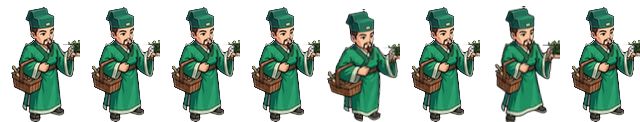
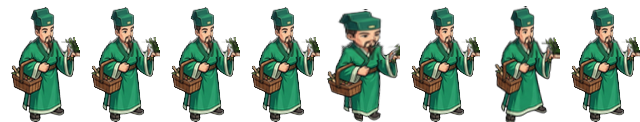
feat(v3.0.0): complete pro studio overhaul - unified 1:3.5 chibi wuxia sprites, seamless Jiangnan courtyard architecture, 100vw desktop layout, proximity NPC tags, and multi-boss battle HUD

diff --git a/js/graphics.js b/js/graphics.js
@@ -63,12 +63,13 @@
   ];
 
   const IMAGE_CACHE = {};
+  const ASSET_VERSION = '20261103_pro';
 
   function preloadAssets() {
     if (typeof Image === 'undefined') return;
     for (const rel of ASSET_MANIFEST) {
       const img = new Image();
-      img.src = 'assets/' + rel;
+      img.src = 'assets/' + rel + '?v=' + ASSET_VERSION;
       IMAGE_CACHE[rel] = img;
     }
   }
@@ -77,7 +78,7 @@
     if (typeof Image === 'undefined') return null;
     if (!IMAGE_CACHE[rel]) {
       const img = new Image();
-      img.src = 'assets/' + rel;
+      img.src = 'assets/' + rel + '?v=' + ASSET_VERSION;
       IMAGE_CACHE[rel] = img;
     }
     return IMAGE_CACHE[rel];
@@ -988,21 +989,36 @@
       labelY = -106;
     }
 
-    // 頭頂圓角古風名牌 + 服務徽章 + 任務標記 + 氣泡短語
+    // 頭頂名牌與任務引導：專業級 RPG 介面規範（接近或游標指向時顯示名牌，平時僅浮現精緻任務光標，杜絕滿屏廣告板）
     if (obj.type === 'npc' || obj.type === 'boss' || obj.type === 'portal') {
-      const badge = obj.serviceBadge ? `[${obj.serviceBadge}] ` : '';
-      const prefix = highlighted
-        ? (obj.type === 'boss' ? '【伏魔】' : obj.type === 'portal' ? '【渡口】' : '【會客】')
-        : badge;
-      const borderCol = highlighted
-        ? '#ffe082'
-        : (obj.type === 'boss' ? 'rgba(255,138,128,0.65)' : 'rgba(226,190,107,0.5)');
-      const txtCol = obj.type === 'boss' ? '#ff8a80' : obj.type === 'portal' ? '#80deea' : '#ffe082';
-      drawRoundedTag(ctx, 0, labelY, prefix + obj.name, 'rgba(7, 15, 32, 0.88)', borderCol, txtCol);
+      const isBoss = obj.type === 'boss';
+      const isPortal = obj.type === 'portal';
+      const showNameTag = highlighted || isBoss || isPortal;
 
-      // 任務標記 (! 主線 / 准 可回報支線 / ? 可接支線)
+      if (showNameTag) {
+        const badge = obj.serviceBadge ? `[${obj.serviceBadge}] ` : '';
+        const prefix = highlighted
+          ? (isBoss ? '【伏魔】' : isPortal ? '【渡口】' : '【會客】')
+          : badge;
+        const borderCol = highlighted
+          ? '#ffe082'
+          : (isBoss ? 'rgba(255,138,128,0.65)' : 'rgba(226,190,107,0.5)');
+        const txtCol = isBoss ? '#ff8a80' : isPortal ? '#80deea' : '#ffe082';
+        drawRoundedTag(ctx, 0, labelY, prefix + obj.name, 'rgba(7, 15, 32, 0.88)', borderCol, txtCol);
+
+        // 靠近可互動時額外浮現精緻按鍵指引
+        if (highlighted && !isBoss && !isPortal) {
+          ctx.font = '10px "Microsoft JhengHei", sans-serif';
+          ctx.fillStyle = 'rgba(255, 238, 145, 0.92)';
+          ctx.textAlign = 'center';
+          ctx.fillText('[ 空白鍵 / 點擊 ] 交談', 0, labelY + 16);
+        }
+      }
+
+      // 任務標記 (! 主線 / 准 可回報支線 / ? 可接支線) - 始終保留呼吸感精緻法寶光標
       if (obj.questMarker) {
-        const qy = labelY - 19 + Math.sin(time * 6) * 2.2;
+        const markerBaseY = showNameTag ? labelY - 19 : labelY - 4;
+        const qy = markerBaseY + Math.sin(time * 6) * 2.2;
         const isMain = obj.questMarker === '!';
         const isTurnIn = obj.questMarker === '✓' || obj.questMarker === '准';
         const qBg = isMain ? '#ffb300' : (isTurnIn ? '#69f0ae' : '#4fc3f7');
@@ -1022,7 +1038,7 @@
 
       // 浮動生活氣泡短語
       if (obj.activeBark && !highlighted) {
-        const barkTop = obj.questMarker ? labelY - 32 : labelY - 17;
+        const barkTop = obj.questMarker ? labelY - 26 : labelY - 14;
         drawSpeechBubble(ctx, 0, barkTop, obj.activeBark, obj.barkAlpha || 1);
       }
     } else if (highlighted) {
@@ -1635,11 +1651,11 @@
     if (count === 1) {
       return { x: w * 0.68, y: h * 0.45 };
     }
-    const stepX = Math.min(74, (w * 0.28) / Math.max(1, count - 1));
-    const stepY = Math.min(42, h * 0.075);
+    const stepX = Math.min(130, (w * 0.34) / Math.max(1, count - 1));
+    const stepY = Math.min(44, h * 0.08);
     return {
-      x: w * 0.57 + idx * stepX,
-      y: h * 0.38 + idx * stepY
+      x: w * 0.52 + idx * stepX,
+      y: h * 0.36 + idx * stepY
     };
   }
 
@@ -1786,7 +1802,8 @@
         const bx = Math.max(8, Math.min(w - barW - 8, pos.x - barW / 2));
         const rawTop = en.sprite === 'boss_shuimoshou' ? 182 : (en.isBoss ? 158 : 98);
         const topOffset = rawTop * (isPortrait ? 0.82 : 1.0);
-        const by = Math.max(54, pos.y - topOffset);
+        const staggerY = (battle.enemies.length > 1 && idx % 2 === 1) ? 32 : 0;
+        const by = Math.max(54, pos.y - topOffset - staggerY);
 
         ctx.fillStyle = 'rgba(7, 15, 32, 0.88)';
         ctx.fillRect(bx - 5, by - 17, barW + 10, 26);

diff --git a/index.html b/index.html
@@ -7,7 +7,7 @@
   <meta http-equiv="Pragma" content="no-cache" />
   <meta http-equiv="Expires" content="0" />
   <title>《仙劍X：燼月長歌》— 經典45度斜視角原創仙俠RPG · 九州十六境長篇巨製</title>
-  <link rel="stylesheet" href="css/style.css?v=20261103_250" />
+  <link rel="stylesheet" href="css/style.css?v=20261103_pro" />
 </head>
 <body>
   <!-- ================= 標題首頁 ================= -->
@@ -17,7 +17,7 @@
       <div class="title-emblem">太初墜星 · 五曜鎮淵 · 原創經典45度斜視角仙俠長歌</div>
       <div style="margin: 6px 0 12px 0;">
         <span style="display:inline-block; padding:4px 14px; background:rgba(7,16,35,0.88); border:1px solid #4fc3f7; border-radius:14px; font-size:12px; color:#80deea; letter-spacing:1px; box-shadow:0 0 12px rgba(79,195,247,0.4);">
-          v2.5.0 · 物理雙足貼地與高精度鏡頭重構版
+          v3.0.0 · 經典仙劍Q版全角色畫風統一與專業級UI重構版
         </span>
       </div>
       <h1 class="title-logo">仙劍<span>X</span>：燼月長歌</h1>
@@ -89,7 +89,7 @@
         <!-- 左下角：仙劍1經典十字菱形四向指令盤 -->
         <div class="battle-bottom-ui">
           <div class="battle-command-zone">
-            <div id="battle-turn-actor" class="battle-turn-actor">▶ 陸逍 出招</div>
+            <div id="battle-turn-actor" class="battle-turn-actor">▶ 裴少游 出招</div>
             <div class="diamond-menu">
               <button id="cmd-attack" class="diamond-btn d-up" title="普通攻擊（雙劍二連擊／長鞭全體橫掃）">
                 <span>攻</span><small>武術</small>
@@ -135,7 +135,7 @@
             <canvas id="dlg-portrait" width="104" height="104"></canvas>
           </div>
           <div class="dlg-content">
-            <div id="dlg-speaker" class="dlg-speaker">陸逍</div>
+            <div id="dlg-speaker" class="dlg-speaker">裴少游</div>
             <div id="dlg-text" class="dlg-text"></div>
             <div id="dlg-choices" class="dlg-choices"></div>
             <div class="dlg-next-hint">點擊或按 [空白鍵] 繼續 ▾</div>
@@ -203,16 +203,16 @@
   </div>
 
   <!-- 依序載入模組（支援本地雙擊 file:// 與 HTTP 伺服器零建置直開） -->
-  <script src="js/data/lore_codex.js?v=20261103_250"></script>
-  <script src="js/data/items_skills.js?v=20261103_250"></script>
-  <script src="js/data/characters_enemies.js?v=20261103_250"></script>
-  <script src="js/data/maps_chapters.js?v=20261103_250"></script>
-  <script src="js/data/story_events.js?v=20261103_250"></script>
-  <script src="js/audio.js?v=20261103_250"></script>
-  <script src="js/graphics.js?v=20261103_250"></script>
-  <script src="js/combat.js?v=20261103_250"></script>
-  <script src="js/engine.js?v=20261103_250"></script>
-  <script src="js/ui.js?v=20261103_250"></script>
-  <script src="js/main.js?v=20261103_250"></script>
+  <script src="js/data/lore_codex.js?v=20261103_pro"></script>
+  <script src="js/data/items_skills.js?v=20261103_pro"></script>
+  <script src="js/data/characters_enemies.js?v=20261103_pro"></script>
+  <script src="js/data/maps_chapters.js?v=20261103_pro"></script>
+  <script src="js/data/story_events.js?v=20261103_pro"></script>
+  <script src="js/audio.js?v=20261103_pro"></script>
+  <script src="js/graphics.js?v=20261103_pro"></script>
+  <script src="js/combat.js?v=20261103_pro"></script>
+  <script src="js/engine.js?v=20261103_pro"></script>
+  <script src="js/ui.js?v=20261103_pro"></script>
+  <script src="js/main.js?v=20261103_pro"></script>
 </body>
 </html>

diff --git a/js/ui.js b/js/ui.js
@@ -43,6 +43,10 @@
       let logicalW = 620;
       if (vw < 640 || vh > vw) {
         logicalW = Math.max(380, Math.min(480, Math.round(vw * 0.95)));
+      } else {
+        // 桌機滿版寬螢幕：依視窗寬高比自適應視野，垂直邏輯高度穩定於約 420px，消除兩側黑邊
+        const targetViewH = 420;
+        logicalW = Math.max(600, Math.min(840, Math.round(targetViewH * (vw / vh))));
       }
       this.game.logicalW = logicalW;
 
@@ -1609,7 +1613,7 @@
       document.getElementById('ending-title').textContent = ending.title;
       document.getElementById('ending-poem').innerHTML = ending.poem.split('\n').map((l) => `<p>${l}</p>`).join('');
       document.getElementById('ending-stats').innerHTML = `
-        <span>陸逍修行：第 ${st.heroes.luxiao.level} 重</span>
+        <span>裴少游修行：第 ${st.heroes.luxiao.level} 重</span>
         <span>宿命記憶碎片：${this.game.getItemCount('memory_shard')} 枚</span>
         <span>領悟丹方：${st.discoveredRecipes.length} 種</span>
         <span>歷練時光：約 ${mins} 分鐘</span>

diff --git a/css/style.css b/css/style.css
@@ -244,12 +244,13 @@ button:disabled {
 
 /* ================= 主遊戲舞台與頂部 HUD ================= */
 .game-stage {
-  width: 100%;
-  height: 100%;
+  width: 100vw;
+  height: 100vh;
   display: flex;
   flex-direction: column;
-  max-width: 1180px;
-  margin: 0 auto;
+  max-width: 100%;
+  margin: 0;
+  overflow: hidden;
 }
 
 .top-hud {
@@ -377,6 +378,13 @@ button:disabled {
   z-index: 15;
   pointer-events: none;
   transition: opacity 0.2s;
+}
+
+/* 桌機鍵鼠玩家免除虛擬搖桿遮擋，保留清爽開闊視野；手機觸控螢幕自動顯示 */
+@media (hover: hover) and (pointer: fine) {
+  .virtual-controls {
+    display: none !important;
+  }
 }
 
 .vjoy-pad {
